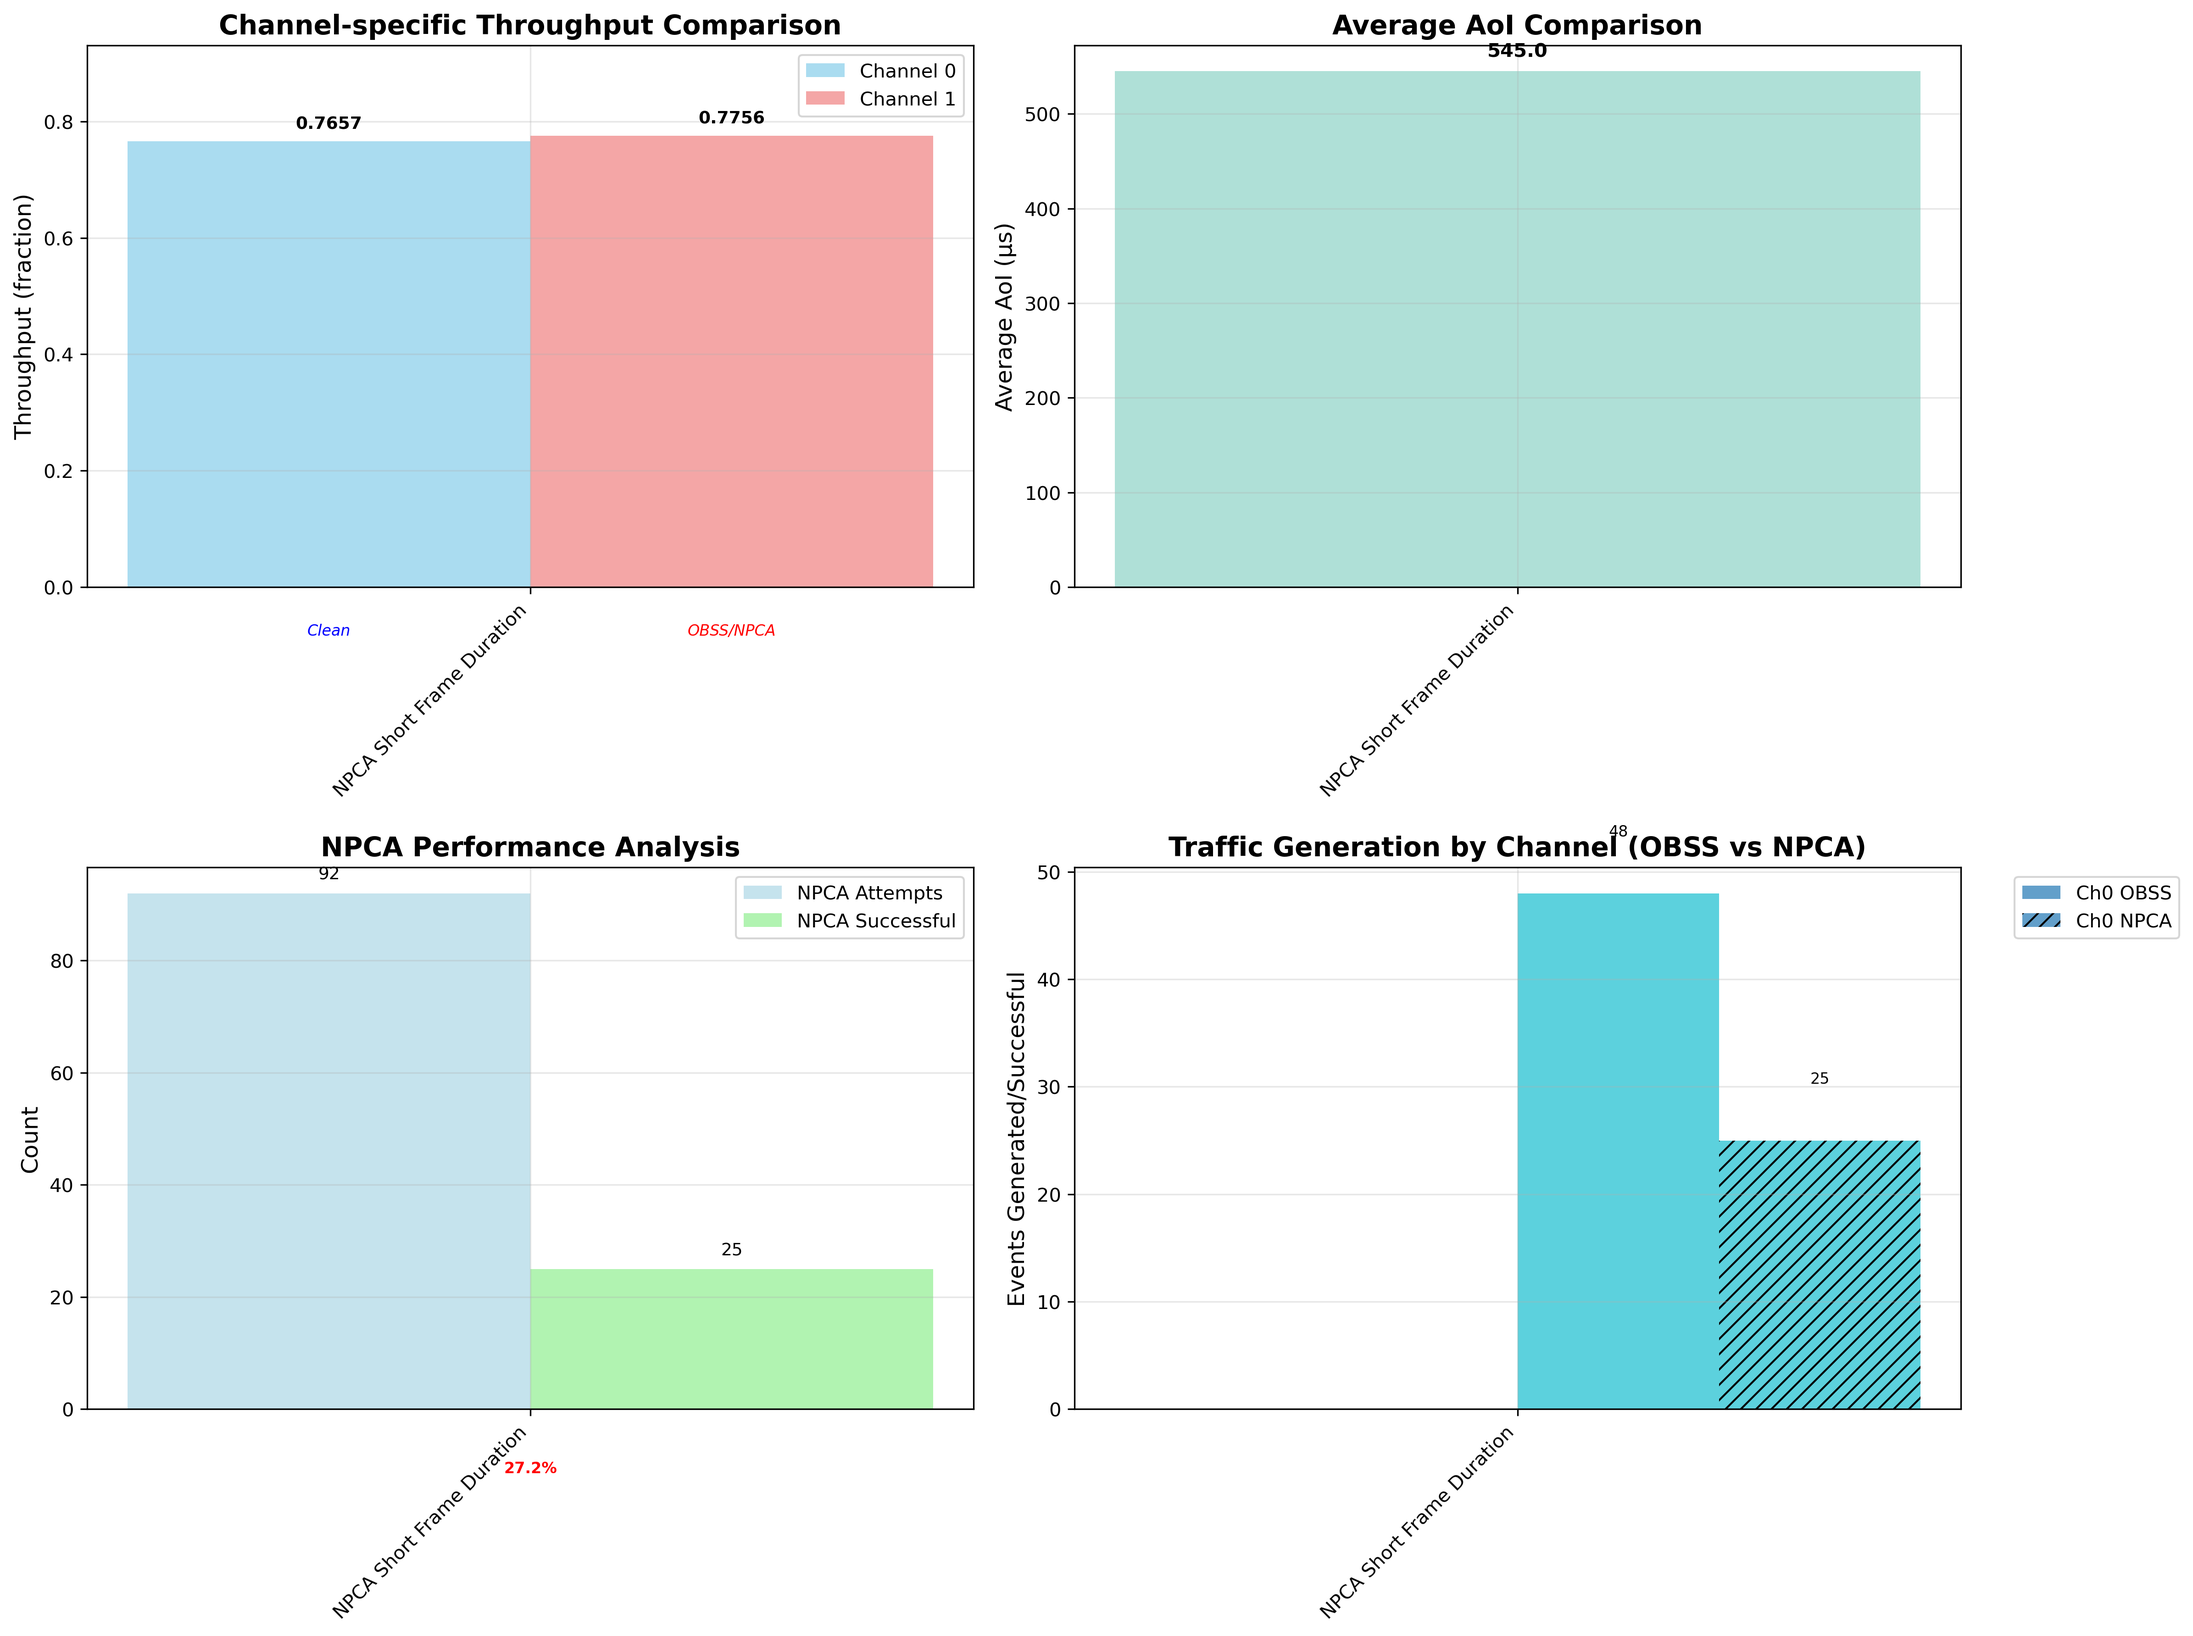
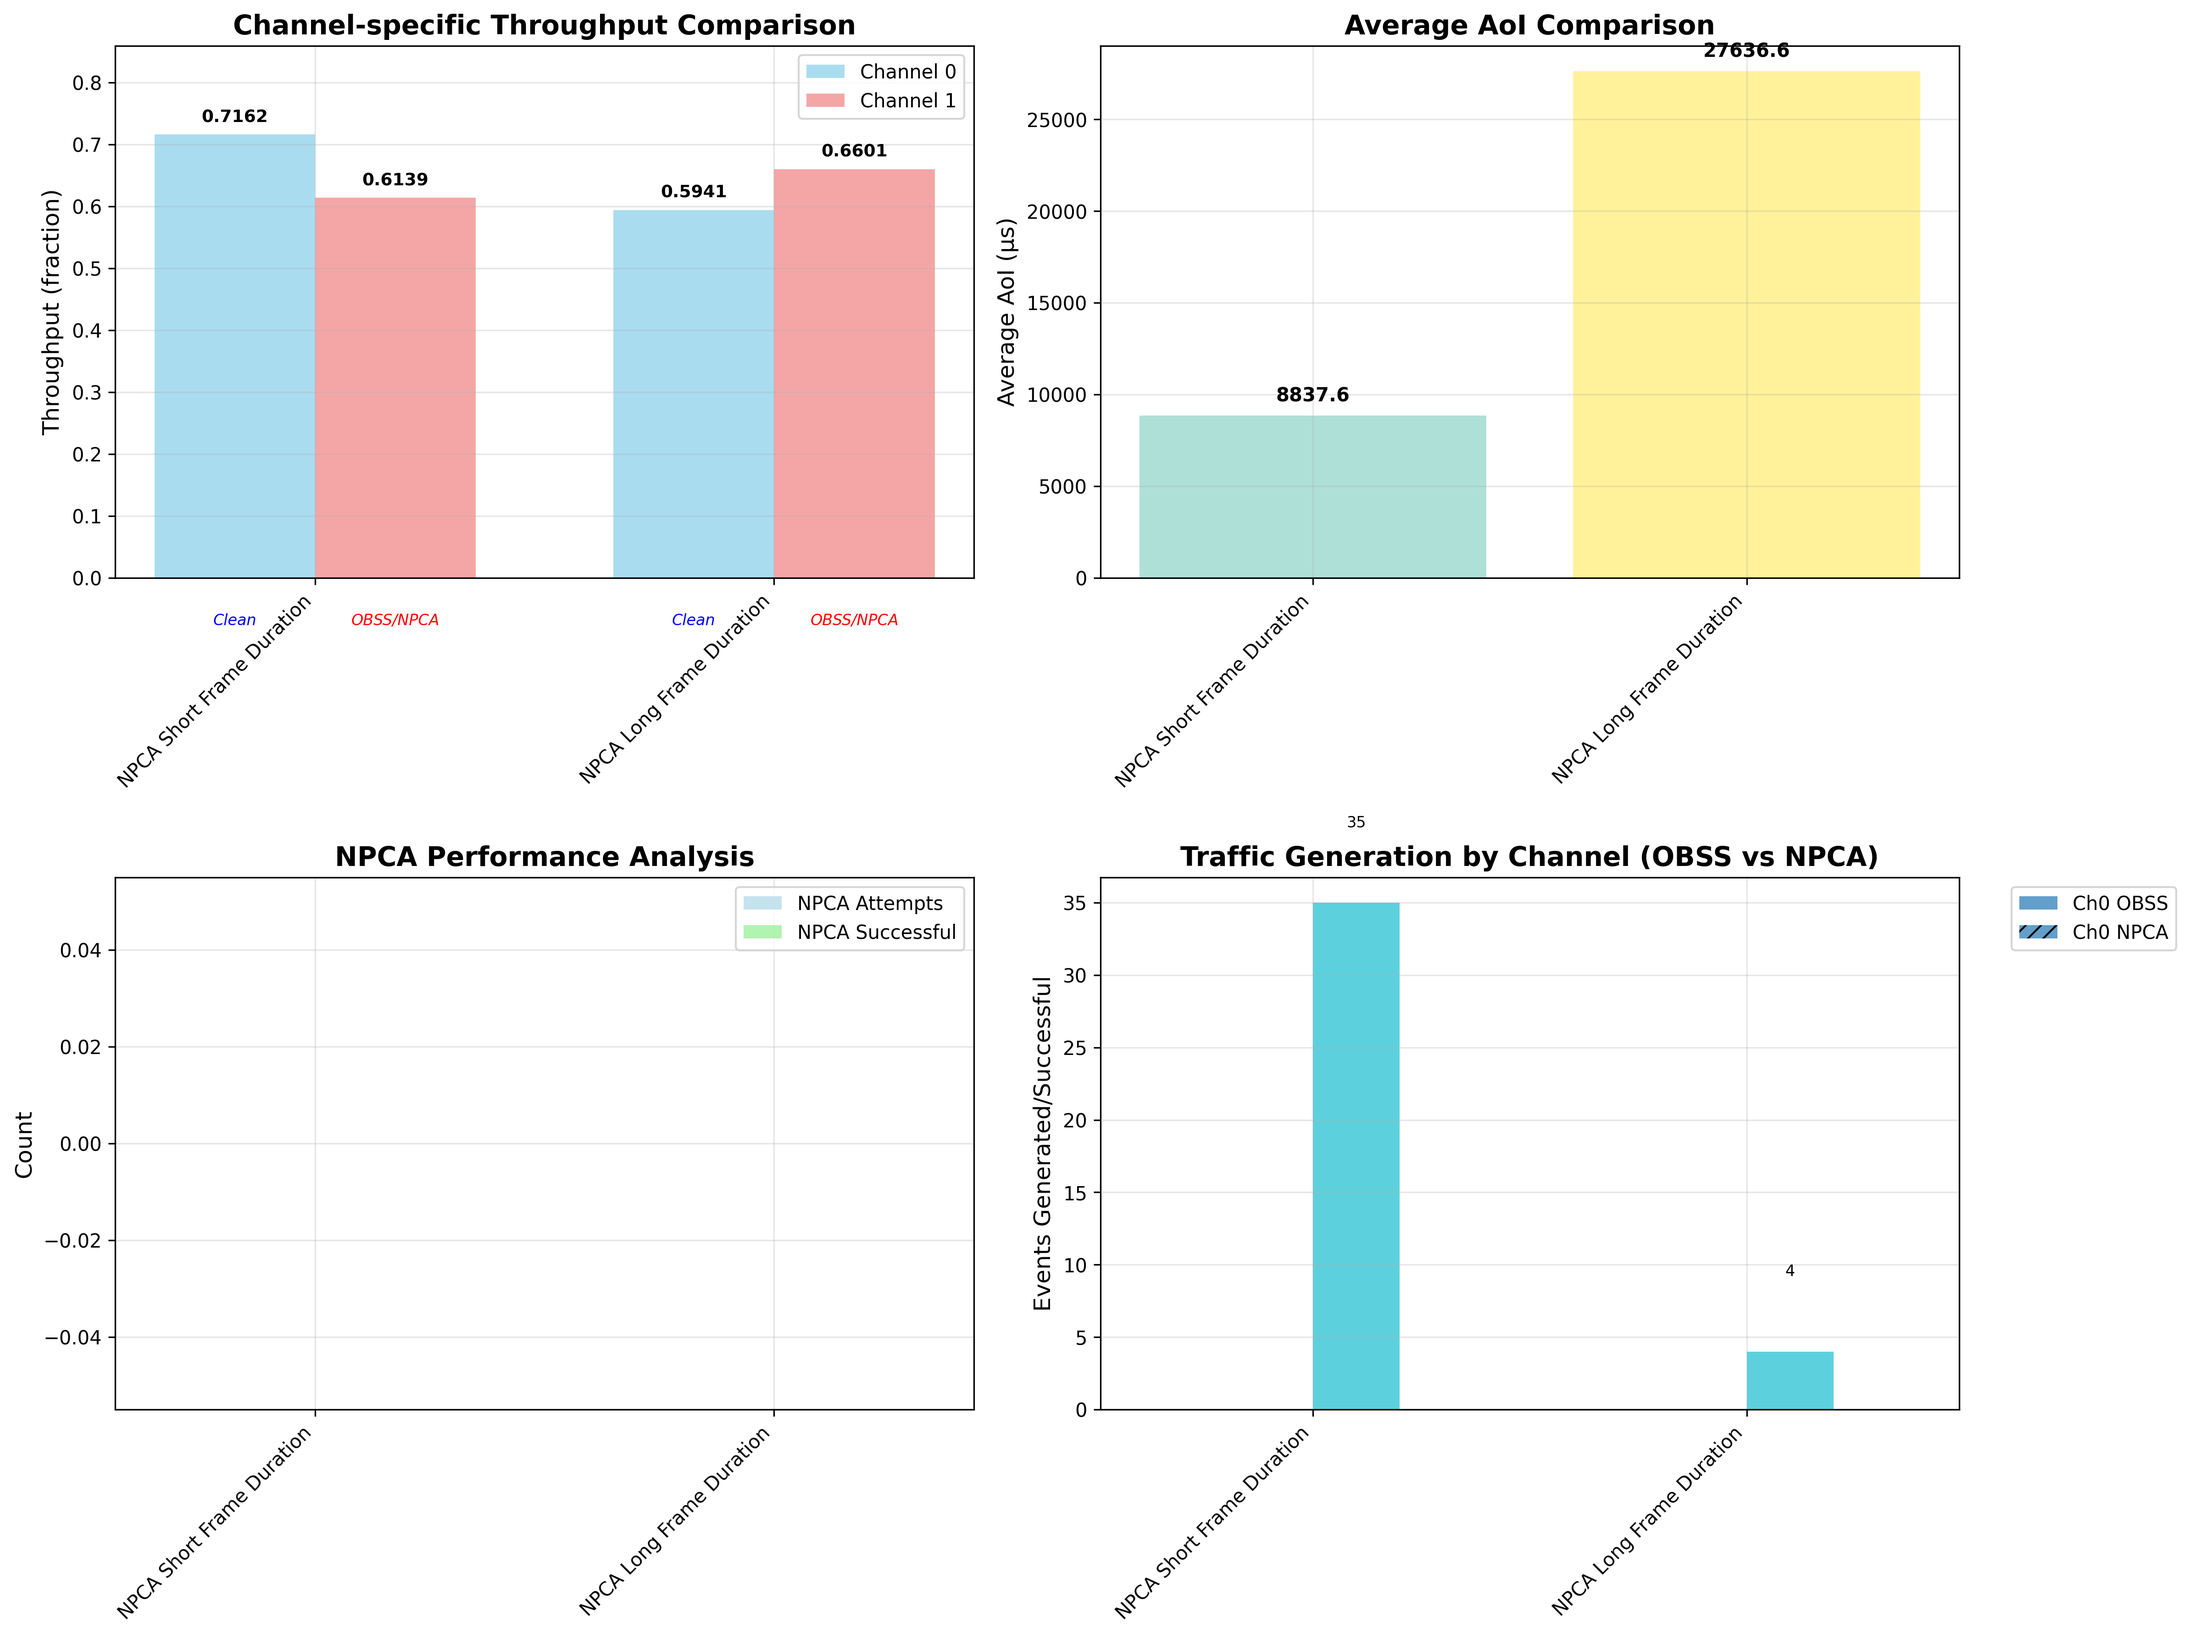
NPCA, short vs long으로 focusing해 보자.

diff --git a/random_access/configs.py b/random_access/configs.py
@@ -28,23 +28,23 @@ simulation_configs = [
     {
         "label": "NPCA Short Frame Duration", 
         "num_channels": 2,
-        "stas_per_channel": [2, 2],
+        "stas_per_channel": [10, 10],
         "simulation_time": simulation_time,
         "frame_size": frame_size,
         "obss_enabled_per_channel": [False, True],  # 채널 1에서만 OBSS 활성화
         "npca_enabled": [False, True],  # 채널 1에서만 NPCA 활성화
         "obss_generation_rate": 0.01
     },
-    # {
-    #     "label": "NPCA Long Frame Duration",
-    #     "num_channels": 2,
-    #     "stas_per_channel": [10, 10],
-    #     "simulation_time": simulation_time,
-    #     "frame_size": frame_size*10,
-    #     "obss_enabled_per_channel": [False, True],  # 채널 1에서만 OBSS 활성화
-    #     "npca_enabled": [False, True],  # 채널 1에서만 NPCA 활성화
-    #     "obss_generation_rate": 0.01
-    # }
+    {
+        "label": "NPCA Long Frame Duration",
+        "num_channels": 2,
+        "stas_per_channel": [10, 10],
+        "simulation_time": simulation_time,
+        "frame_size": frame_size*10,
+        "obss_enabled_per_channel": [False, True],  # 채널 1에서만 OBSS 활성화
+        "npca_enabled": [False, True],  # 채널 1에서만 NPCA 활성화
+        "obss_generation_rate": 0.01
+    }
 ]
 
 # simulation_configs = [
